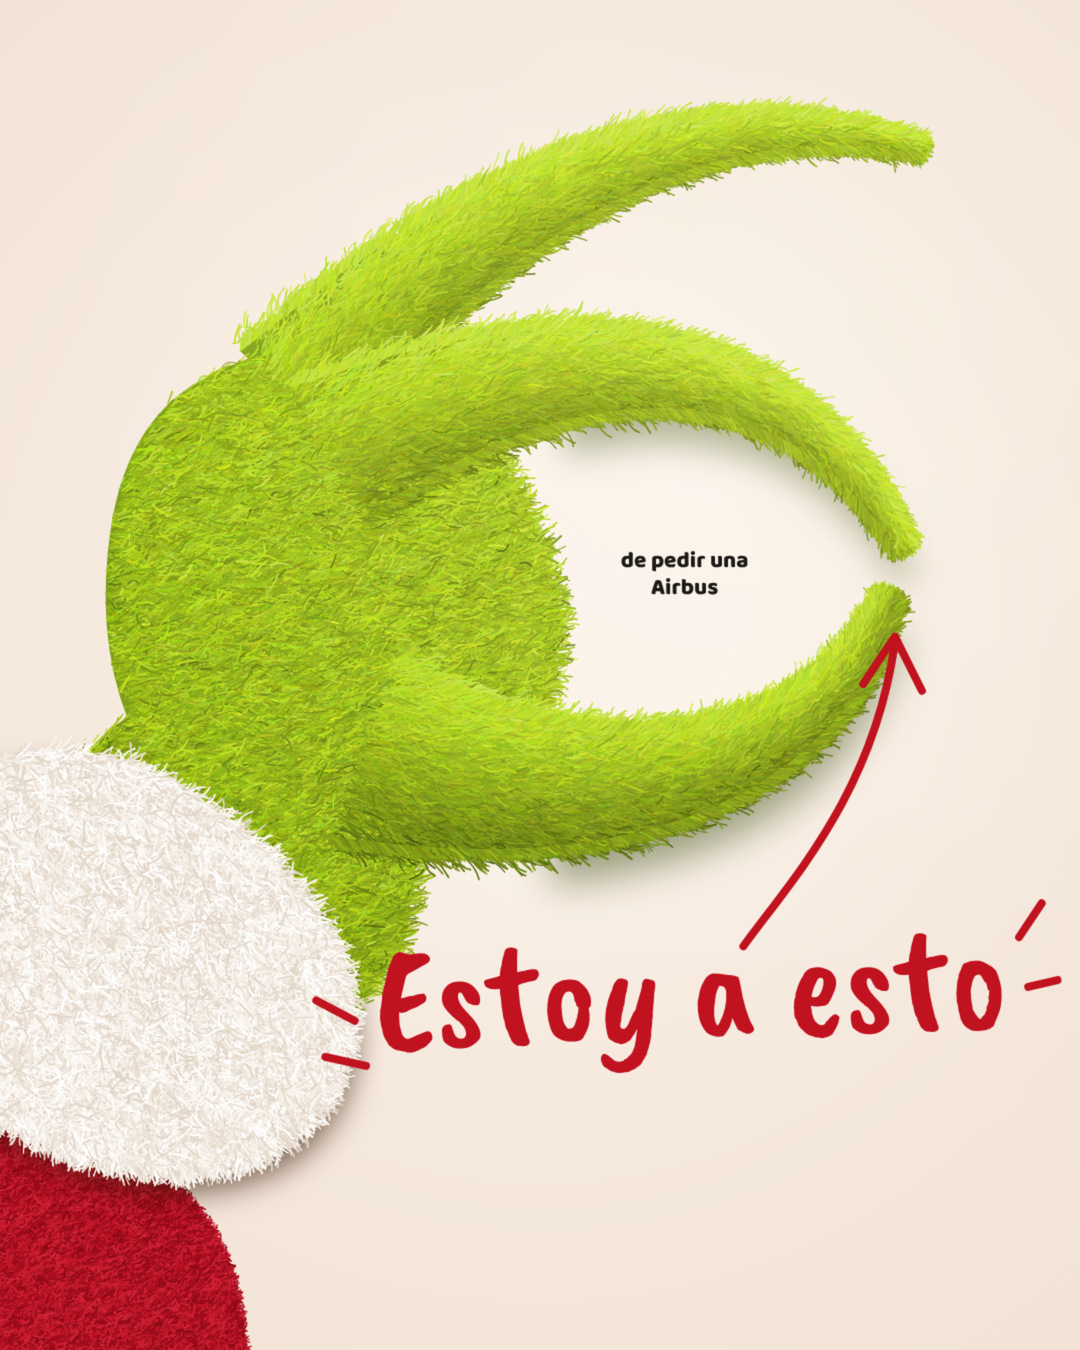
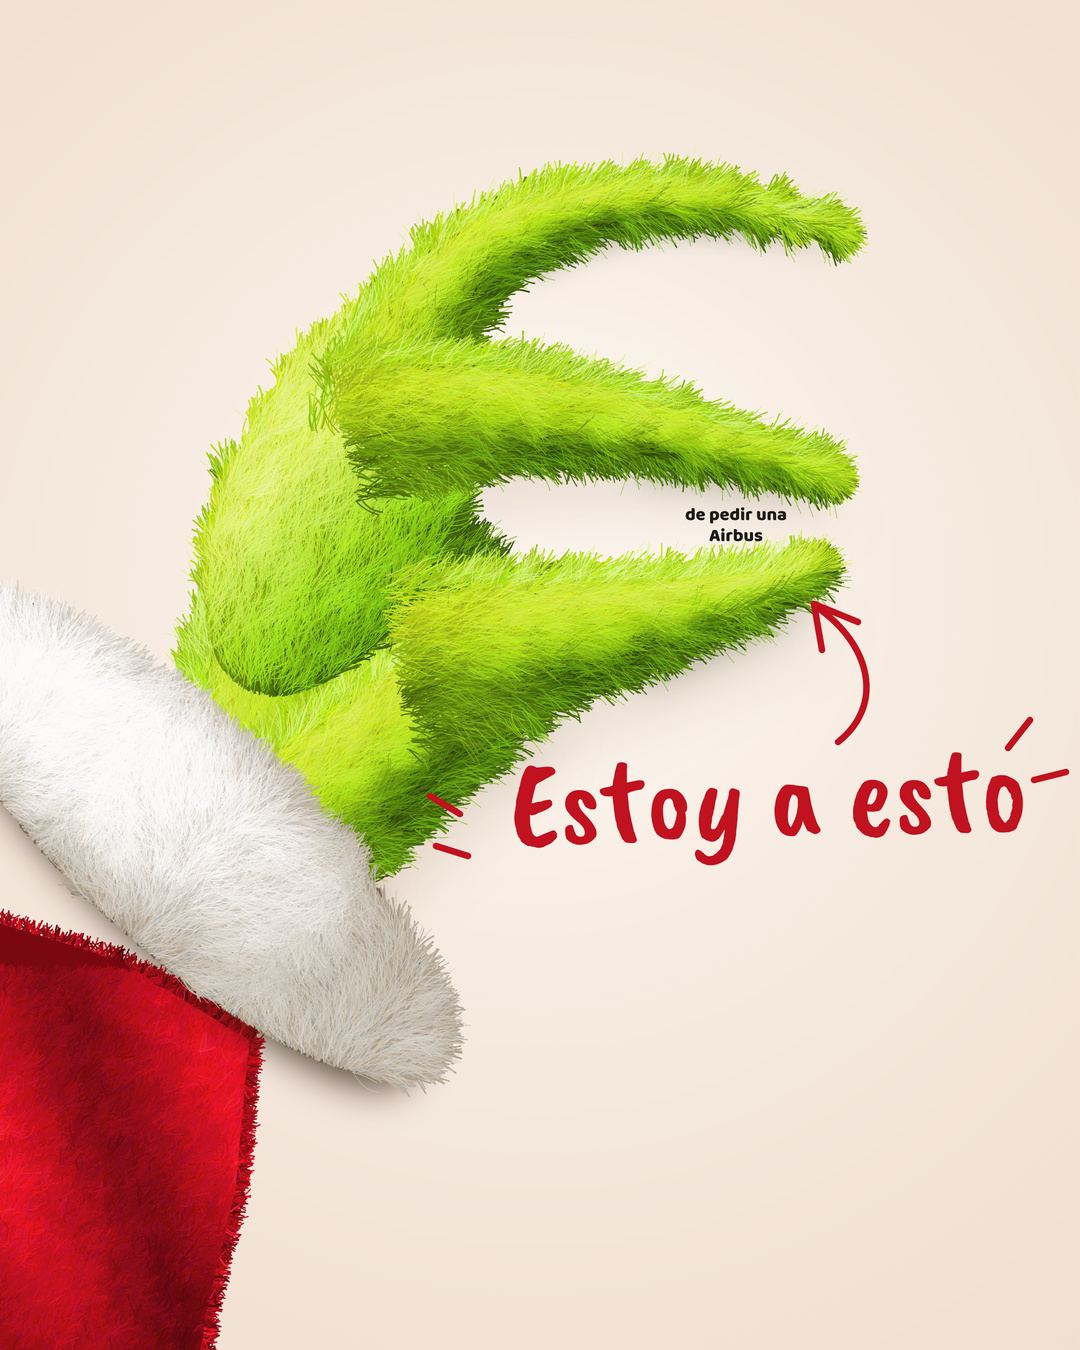
Estoy a esto: mano esbelta y realista (pelo en 3 capas, luz por forma, proporciones de la pose de referencia)
Claude-Session: https://claude.ai/code/session_0158hRDxJUWYBKWghtQE4Xqy

diff --git a/aeroburger/12-estoy-a-esto/src/hand2.html b/aeroburger/12-estoy-a-esto/src/hand2.html
@@ -1,0 +1,175 @@
+<!doctype html>
+<html lang="es">
+<head>
+<meta charset="utf-8">
+<title>Aero Burger — Estoy a esto de pedir una Airbus (mano realista)</title>
+<style>
+@font-face{font-family:'CaveatBrush';src:url('../assets/CaveatBrush.woff')}
+@font-face{font-family:'Baloo';src:url('../assets/Baloo2-800.woff');font-weight:800}
+html,body{margin:0;background:#F6EADF;overflow:hidden}canvas{display:block;width:1080px;height:1350px}
+</style>
+</head>
+<body>
+<canvas id="c"></canvas>
+<script>
+/* =========================================================================
+   «Estoy a esto de pedir una Airbus» · mano peluda realista (pelo procedural, semilla fija)
+   Modelo: cada parte (dedos = cilindros, palma = esfera aplastada, puño = toro esponjoso) tiene normal analítica;
+   el pelo se dibuja en 3 capas (subpelo oscuro · pelo principal en mechones · destellos finos) con luz de arriba-izquierda,
+   oclusión en las bases y los bordes, luz de borde (translucidez) y sombras de contacto entre partes.
+   ?s=1 mano completa + «Estoy a esto» · ?s=2 acercamiento a los dedos · ?ss=2 supermuestreo
+   ========================================================================= */
+const W=1080, H=1350, QS=new URLSearchParams(location.search);
+const SLIDE=QS.get('s')||'1', SS=parseFloat(QS.get('ss')||'2'), QUAL=parseFloat(QS.get('q')||'1');
+const Z = SLIDE==='2' ? {k:2.3, cx:650, cy:500} : {k:1, cx:540, cy:675};
+const BG='#F6EADF', RED='#C1121F', INK='#1d1a17';
+const hctx=document.createElement('canvas').getContext('2d');   // sin transformación: pruebas de punto en coordenadas del mundo
+const canvas=document.getElementById('c'); canvas.width=W*SS; canvas.height=H*SS; const ctx=canvas.getContext('2d');
+// ---------- utilidades
+function rng(seed){ let a=seed>>>0; return ()=>{ a|=0; a=a+0x6D2B79F5|0; let t=Math.imul(a^a>>>15,1|a); t=t+Math.imul(t^t>>>7,61|t)^t; return ((t^t>>>14)>>>0)/4294967296; }; }
+const R=rng(20261127), rnd=(a,b)=>a+(b-a)*R(), gauss=()=>{ let s=0; for(let i=0;i<4;i++) s+=R(); return (s-2)/0.577; };
+const lerp=(a,b,t)=>a+(b-a)*t, clamp=(x,a,b)=>Math.min(b,Math.max(a,x)), sstep=(a,b,x)=>{ const t=clamp((x-a)/(b-a),0,1); return t*t*(3-2*t); };
+// ruido de valor 2D (mechones)
+const NZ=new Float32Array(1024); for(let i=0;i<1024;i++) NZ[i]=R()*2-1;
+function vnoise(x,y){ const xi=Math.floor(x), yi=Math.floor(y), xf=x-xi, yf=y-yi, h=(a,b)=>NZ[((a*73856093)^(b*19349663))&1023], sx=xf*xf*(3-2*xf), sy=yf*yf*(3-2*yf);
+  return lerp(lerp(h(xi,yi),h(xi+1,yi),sx),lerp(h(xi,yi+1),h(xi+1,yi+1),sx),sy); }
+function bez(P,t){ const u=1-t; return {x:u*u*u*P[0][0]+3*u*u*t*P[1][0]+3*u*t*t*P[2][0]+t*t*t*P[3][0], y:u*u*u*P[0][1]+3*u*u*t*P[1][1]+3*u*t*t*P[2][1]+t*t*t*P[3][1]}; }
+function bezD(P,t){ const u=1-t; const x=3*u*u*(P[1][0]-P[0][0])+6*u*t*(P[2][0]-P[1][0])+3*t*t*(P[3][0]-P[2][0]), y=3*u*u*(P[1][1]-P[0][1])+6*u*t*(P[2][1]-P[1][1])+3*t*t*(P[3][1]-P[2][1]); const l=Math.hypot(x,y)||1; return {x:x/l,y:y/l}; }
+// luz: arriba-izquierda y de frente
+const LV=(()=>{ const l=Math.hypot(-0.40,-0.62,0.68); return [-0.40/l,-0.62/l,0.68/l]; })();
+const DET=Math.min(Z.k,1.6);                       // más fino y denso al acercar
+function visible(x,y,m=70){ return Math.abs(x-Z.cx)<540/Z.k+m && Math.abs(y-Z.cy)<675/Z.k+m; }
+
+// ---------- partes
+// dedo: centro bézier, ancho que se afina con nudillos suaves y punta afilada
+function finger(P,w0,w1,o={}){ const f={P,w0,w1,pow:o.pow||0.75,knuckles:o.knuckles??1,flip:!!o.flip,mode:o.mode||'axis',cols:o.cols||'green'};
+  f.width=t=>{ const b=lerp(w0,w1,Math.pow(t,f.pow)); const kn=f.knuckles?(1+0.07*Math.exp(-Math.pow((t-0.34)/0.06,2))+0.05*Math.exp(-Math.pow((t-0.66)/0.05,2))):1; return b*kn*(t>0.93?lerp(1,0.55,(t-0.93)/0.07):1); };
+  const n=120; f.tab=[0]; let len=0, prev=bez(P,0); for(let i=1;i<=n;i++){ const c=bez(P,i/n); len+=Math.hypot(c.x-prev.x,c.y-prev.y); f.tab.push(len); prev=c; } f.len=len;
+  f.tAt=s=>{ let lo=0,hi=n; while(hi-lo>1){ const m=(lo+hi)>>1; if(f.tab[m]<s) lo=m; else hi=m; } return (lo+(s-f.tab[lo])/((f.tab[hi]-f.tab[lo])||1))/n; };
+  let a=0; for(let i=0;i<n;i++){ const t=(i+0.5)/n; a+=f.width(t)*(f.tab[i+1]-f.tab[i]); } f.area=a; return f; }
+function fingerPath(f,t0=0){ const n=60, L=[], Rr=[]; for(let i=0;i<=n;i++){ const t=t0+(1-t0)*i/n, c=bez(f.P,t), d=bezD(f.P,t), w=f.width(t)/2; L.push([c.x-d.y*w,c.y+d.x*w]); Rr.push([c.x+d.y*w,c.y-d.x*w]); }
+  const p=new Path2D(); p.moveTo(L[0][0],L[0][1]); for(const q of L) p.lineTo(q[0],q[1]); for(let i=n;i>=0;i--) p.lineTo(Rr[i][0],Rr[i][1]); p.closePath(); return p; }
+function ellPoly(e,n=40){ const p=new Path2D(); for(let i=0;i<=n;i++){ const a=i/n*Math.PI*2, x=Math.cos(a)*e.rx*(1+0.04*Math.sin(a*3)), y=Math.sin(a)*e.ry*(1+0.04*Math.cos(a*2)); const X=e.cx+x*Math.cos(e.rot)-y*Math.sin(e.rot), Y=e.cy+x*Math.sin(e.rot)+y*Math.cos(e.rot); i?p.lineTo(X,Y):p.moveTo(X,Y); } p.closePath(); return p; }
+
+// Proporciones esbeltas: dedos largos y finos que se afinan hasta la punta, palma y antebrazo estrechos, todo en diagonal desde el puño.
+const F1    =finger([[372,445],[412,250],[565,148],[832,228]],118,7,{pow:0.85,knuckles:0});   // dedo alto: sube en diagonal y barre a la derecha como un cuerno
+const F2    =finger([[338,430],[490,392],[668,422],[824,474]],124,8,{pow:1.12,knuckles:0});   // dedo de la pinza: baja hacia la punta
+const THUMB =finger([[392,665],[525,642],[690,613],[810,573]],150,9,{pow:1.15,knuckles:0});  // pulgar: sube hacia la punta
+const PALMF =finger([[238,850],[282,730],[330,610],[372,500]],150,236,{pow:1.1,knuckles:0});   // antebrazo que se ensancha hacia los nudillos
+const HEEL  =finger([[272,846],[340,785],[420,722],[505,660]],150,100,{pow:1,knuckles:0});     // talón de la mano hasta la base del pulgar
+const KNUCK ={cx:340,cy:500,rx:200,ry:104,rot:-1.12};                                          // masa redondeada del dorso donde nacen los dedos
+const CUFFE={cx:182,cy:842,rx:300,ry:96,rot:0.74};
+const SLEEVEP=new Path2D(); (()=>{ const pts=[[-140,880],[120,960],[250,1040],[236,1190],[205,1320],[196,1440],[-140,1440]]; SLEEVEP.moveTo(pts[0][0],pts[0][1]); for(const q of pts) SLEEVEP.lineTo(q[0],q[1]); SLEEVEP.closePath(); })();
+const SLEEVEPTS=[[-140,880],[120,960],[250,1040],[236,1190],[205,1320],[196,1440]];
+
+// ---------- lotes de trazos (un solo stroke por cubeta de color)
+const batches=new Map();
+function q(layer,x,y,ang,len,wid,L,Hh,Sat,alpha,curve){
+  const Lq=Math.round(clamp(L,4,98)*0.6), Hq=Math.round(Hh/2), Sq=Math.round(Sat/6), Wq=Math.round(wid*5), Aq=Math.round(alpha*4); const key=layer+'|'+Lq+'|'+Hq+'|'+Sq+'|'+Wq+'|'+Aq;
+  let b=batches.get(key); if(!b){ b={style:`hsl(${Hq*2} ${Sq*6}% ${Lq/0.6}%)`,w:Wq/5,a:Aq/4,path:new Path2D()}; batches.set(key,b); }
+  const ca=Math.cos(ang), sa=Math.sin(ang); b.path.moveTo(x,y); b.path.quadraticCurveTo(x+ca*len*0.5-sa*curve,y+sa*len*0.5+ca*curve,x+ca*len,y+sa*len); }
+function flush(){ ctx.lineCap='round'; for(const b of batches.values()){ ctx.strokeStyle=b.style; ctx.lineWidth=b.w; ctx.globalAlpha=b.a; ctx.stroke(b.path); } ctx.globalAlpha=1; batches.clear(); }
+function soften(path,dx,dy,blur,col){ ctx.save(); ctx.filter=`blur(${blur*SS*Z.k}px)`; ctx.fillStyle=col; ctx.translate(dx,dy); ctx.fill(path); ctx.restore(); }
+
+// ---------- pelo de un dedo
+const PAL={ green:{h0:86,h1:68,s:80,l0:16,l1:50,rim:12}, white:{h0:36,h1:34,s:16,l0:62,l1:97,rim:3}, red:{h0:355,h1:352,s:80,l0:20,l1:46,rim:8} };
+function furFinger(f,dens,opt={}){
+  const pal=PAL[f.cols], layers=[['u',0.20,[2.6,3.6],[9,16],0.88],['m',0.78,[1.0,1.7],[16,30],1],['h',0.16,[0.55,0.95],[20,36],0.78]];
+  for(const [name,d,wr,lr,alpha] of layers){
+    const N=Math.round(dens*d*f.area/Math.pow(1,1)*DET*DET*QUAL);
+    for(let i=0;i<N;i++){
+      const s=Math.pow(R(),1.0)*f.len, t=f.tAt(s), c=bez(f.P,t), d0=bezD(f.P,t), w=f.width(t)/2;
+      let u=gauss()*0.52; if(R()<0.07) u=(R()<0.5?-1:1)*(1+R()*0.22); u=clamp(u,-1.25,1.25);
+      const x=c.x-d0.y*w*u, y=c.y+d0.x*w*u; if(!visible(x,y)) continue;
+      if(name==='u' && t<0.24) continue; if(t<0.22 && R()>0.18+t*3.6) continue;                                // la base se funde con la palma
+      const uu=clamp(u,-1,1), nz=Math.sqrt(1-uu*uu), lx=-d0.y*uu, ly=d0.x*uu;
+      const diff=Math.max(clamp(lx*LV[0]+ly*LV[1]+nz*LV[2],0,1)*0.88+0.12,0.36*(1-sstep(0.12,0.55,t)));
+      const ao=0.14*(1-sstep(0,0.3,t))+0.20*sstep(0.72,1.15,Math.abs(u));
+      const cl=vnoise(x/15,y/15), cl2=vnoise(x/6+40,y/6);                 // mechones
+      const dir=Math.atan2(d0.y,d0.x)*1+(f.flip?Math.PI:0);
+      const ang=dir+gauss()*0.30+cl*0.55+uu*(0.18+(Math.abs(u)>1?0.5:0))*(name==='h'?1:0.7);
+      const len=(rnd(lr[0],lr[1])*(1+0.25*sstep(0.6,1,t)))/DET, wid=rnd(wr[0],wr[1])/DET;
+      let L=lerp(pal.l0,pal.l1,diff*(1-ao))+cl*4+cl2*1.8+gauss()*2.2;
+      if(name==='u') L=lerp(pal.l0*0.8,pal.l1*0.45,diff)*(1-ao*0.9)+cl*1.5;
+      if(name==='h') L+=10+pal.rim*Math.pow(1-nz,2)*(uu<0?1.4:0.5);
+      L+=pal.rim*Math.pow(1-nz,2.4)*(lx*LV[0]+ly*LV[1]>0?1:0.25);        // luz de borde por translucidez
+      q(name,x,y,ang,len,wid,L,lerp(pal.h0,pal.h1,diff)+gauss()*2,pal.s+gauss()*4,alpha,gauss()*3.5/DET);
+    }
+    if(name==='u') flush();                                              // el subpelo debajo del pelo principal
+    if(name==='m') flush();
+  }
+  flush();
+}
+// ---------- pelo de un elipsoide (palma / puño)
+function furEll(e,dens,cols,fuzz=1.12,flow,flat=1,noRim=false){
+  const pal=PAL[cols], area=Math.PI*e.rx*e.ry, layers=[['u',0.20,[2.8,3.8],[9,16],0.88],['m',0.78,[1.0,1.8],[16,32],1],['h',0.16,[0.55,1.0],[20,38],0.78]];
+  for(const [name,d,wr,lr,alpha] of layers){
+    const N=Math.round(dens*d*area*DET*DET*QUAL);
+    for(let i=0;i<N;i++){
+      const a=R()*Math.PI*2, r=Math.sqrt(R())*fuzz, xl=Math.cos(a)*r, yl=Math.sin(a)*r, cs=Math.cos(e.rot), sn=Math.sin(e.rot);
+      const x=e.cx+(xl*e.rx)*cs-(yl*e.ry)*sn, y=e.cy+(xl*e.rx)*sn+(yl*e.ry)*cs; if(!visible(x,y)) continue;
+      if(noRim&&name==='u'&&r>0.78) continue;
+      const r2=Math.min(1,xl*xl+yl*yl)*flat, nz=Math.sqrt(1-r2), nx=xl*cs-yl*sn, ny=xl*sn+yl*cs;
+      const diff=clamp(nx*LV[0]+ny*LV[1]+nz*LV[2],0,1)*0.88+0.12, cl=vnoise(x/16,y/16), cl2=vnoise(x/6+40,y/6);
+      const ang=flow(x,y)+gauss()*0.34+cl*0.6;
+      const ao=0.22*flat*sstep(0.7,1.1,Math.sqrt(xl*xl+yl*yl));
+      let L=lerp(pal.l0,pal.l1,diff*(1-ao))+cl*4+cl2*1.8+gauss()*2.2;
+      if(name==='u') L=lerp(pal.l0*0.8,pal.l1*0.45,diff)*(1-ao*0.9);
+      if(name==='h') L+=10+pal.rim;
+      L+=pal.rim*Math.pow(1-nz,2.4)*(nx*LV[0]+ny*LV[1]>0?1:0.25);
+      q(name,x,y,ang,rnd(lr[0],lr[1])/DET,rnd(wr[0],wr[1])/DET,L,lerp(pal.h0,pal.h1,diff)+gauss()*2,pal.s+gauss()*4,alpha,gauss()*3.5/DET);
+    }
+    if(name!=='h') flush();
+  }
+  flush();
+}
+function furSleeve(){
+  for(const [d,wr,lr,alpha] of [[0.9,[2.6,3.6],[9,14],0.9],[3.0,[1.0,1.7],[10,20],1]]){
+    const N=Math.round(d*160000*DET*DET*QUAL/9); let n=0, tries=0;
+    while(n<N&&tries<N*4){ tries++; const x=rnd(-90,270), y=rnd(980,1420); if(!visible(x,y)||!hctx.isPointInPath(SLEEVEP,x,y)) continue; n++;
+      const fold=0.5+0.5*Math.sin((x*0.9-y*0.35)/38), sh=lerp(0.35,1,fold)*(1-0.4*sstep(1180,1400,y)), cl=vnoise(x/14,y/14);
+      q('s',x,y,-0.9+gauss()*0.45+cl*0.4,rnd(lr[0],lr[1])/DET,rnd(wr[0],wr[1])/DET,18+sh*30+cl*3+gauss()*2,355+gauss()*2,82,alpha,gauss()*3); }
+    flush(); }
+}
+function sleeveFuzz(){ const pts=SLEEVEPTS; for(let i=0;i<pts.length-1;i++){ const [x0,y0]=pts[i],[x1,y1]=pts[i+1], L=Math.hypot(x1-x0,y1-y0), nx=(y1-y0)/L, ny=-(x1-x0)/L, N=Math.round(L*1.6*DET*QUAL); for(let k=0;k<N;k++){ const t=R(), x=x0+(x1-x0)*t, y=y0+(y1-y0)*t; if(!visible(x,y)) continue; const ang=Math.atan2(ny,nx)+gauss()*0.6; q('s',x,y,ang,rnd(7,15)/DET,rnd(1,1.7)/DET,34+gauss()*8,355+gauss()*2,82,1,gauss()*2); } } flush(); }
+function drawHand(){
+  // sombra de contacto suave sobre el fondo
+  for(const f of [F2,THUMB,PALMF,HEEL]) soften(fingerPath(f),26,50,30,'rgba(120,80,50,.15)');
+  // manga roja y sombra del puño sobre ella
+  ctx.fillStyle='#7a0813'; ctx.fill(SLEEVEP); furSleeve(); sleeveFuzz();
+  soften(ellPoly(CUFFE),8,26,20,'rgba(40,0,6,.55)');
+  // antebrazo y dorso de la mano, dedo alto, dedo de la pinza y pulgar (de atrás hacia delante)
+  ctx.fillStyle='#3d5a0b'; ctx.fill(fingerPath(PALMF,0.05)); ctx.fill(fingerPath(HEEL,0.05)); furFinger(PALMF,0.62); furFinger(HEEL,0.62);
+  ctx.fillStyle='#3d5a0b'; ctx.fill(ellPoly(KNUCK)); furEll(KNUCK,0.60,'green',1.06,(x,y)=>-1.12+0.25*(x-KNUCK.cx)/KNUCK.rx,0.04,true);
+  soften(fingerPath(F1,0.5),3,20,12,'rgba(15,28,0,.30)'); furFinger(F1,0.66);
+  soften(fingerPath(F2,0.62),4,24,16,'rgba(20,34,0,.28)'); furFinger(F2,0.66);
+  soften(fingerPath(THUMB,0.55),6,28,16,'rgba(20,34,0,.28)'); furFinger(THUMB,0.66);
+  // puño blanco esponjoso
+  soften(ellPoly(CUFFE),10,16,16,'rgba(35,52,0,.5)');
+  ctx.fillStyle='#b9aea3'; ctx.fill(ellPoly(CUFFE));
+  furEll(CUFFE,0.62,'white',1.10,(x,y)=>-0.9+0.9*Math.sin((x*0.021)+(y*0.017)));
+}
+// ---------- textos
+function handText(str,x,y,size,col,rot=0){ ctx.save(); ctx.translate(x,y); ctx.rotate(rot); ctx.font=`${size}px CaveatBrush`; ctx.textAlign='center'; ctx.fillStyle=col; ctx.fillText(str,0,0); ctx.restore(); }
+function arrow(){ ctx.save(); ctx.strokeStyle=RED; ctx.lineWidth=6.5; ctx.lineCap='round'; ctx.lineJoin='round';
+  ctx.beginPath(); ctx.moveTo(838,742); ctx.bezierCurveTo(884,706,872,646,818,608); ctx.stroke();
+  ctx.beginPath(); ctx.moveTo(822,650); ctx.lineTo(814,604); ctx.lineTo(858,622); ctx.stroke();
+  for(const [a,b,c,d] of [[430,796,460,814],[436,846,468,856],[1008,748,1030,720],[1034,780,1066,772]]){ ctx.beginPath(); ctx.moveTo(a,b); ctx.lineTo(c,d); ctx.stroke(); } ctx.restore(); }
+
+async function draw(){
+  await Promise.all([document.fonts.load('80px CaveatBrush'),document.fonts.load('800 80px Baloo')]);
+  ctx.setTransform(SS,0,0,SS,0,0); ctx.fillStyle=BG; ctx.fillRect(0,0,W,H);
+  const vg=ctx.createRadialGradient(540,560,160,540,675,1050); vg.addColorStop(0,'rgba(255,250,244,.65)'); vg.addColorStop(1,'rgba(226,198,176,.30)'); ctx.fillStyle=vg; ctx.fillRect(0,0,W,H);
+  ctx.save(); ctx.translate(540-Z.cx*Z.k,675-Z.cy*Z.k); ctx.scale(Z.k,Z.k);
+  // isPointInPath usa coordenadas de lienzo: para la manga se pasa en píxeles reales (ver furSleeve)
+  drawHand();
+  if(SLIDE==='1'){ arrow(); handText('Estoy a esto',770,836,122,RED,-0.03);
+    ctx.save(); ctx.fillStyle=INK; ctx.font='800 18px Baloo'; ctx.textAlign='center'; ctx.fillText('de pedir una',736,520); ctx.fillText('Airbus',736,541); ctx.restore(); ctx.restore();
+  } else { ctx.restore(); ctx.save(); ctx.setTransform(SS,0,0,SS,0,0); ctx.fillStyle=INK; ctx.font='800 80px Baloo'; ctx.textAlign='center'; ctx.fillText('de pedir',540,714); ctx.fillText('una Airbus',540,798);
+    ctx.font='600 26px Inter'; ctx.fillStyle='rgba(60,45,30,.55)'; ctx.letterSpacing='3px'; ctx.fillText('@AERO.BURGER  ·  SANTA ELENA',540,1290); ctx.restore(); }
+  return true;
+}
+window.ready=draw();
+</script>
+</body>
+</html>

diff --git a/aeroburger/12-estoy-a-esto/src/render.js b/aeroburger/12-estoy-a-esto/src/render.js
@@ -5,8 +5,8 @@ const { chromium } = require('playwright'); const path = require('path');
   const page = await browser.newPage({ viewport: { width: 1080, height: 1350 }, deviceScaleFactor: sc });
   page.on('pageerror', e => console.error('[pageerror]', e.message)); page.on('console', m => m.type() === 'error' && console.error('[console]', m.text()));
   for (const s of (process.argv[2] || '1,2').split(',')) {
-    await page.goto('file://' + path.resolve('src/hand.html') + '?s=' + s); await page.evaluate(() => window.ready);
-    await (await page.$('#c')).screenshot({ path: `out/estoy_a_esto_${s}.png` }); console.log('lámina', s);
+    await page.goto('file://' + path.resolve('src/' + (process.env.HAND || 'hand.html')) + '?s=' + s + '&ss=' + (process.env.SS || '1') + '&q=' + (process.env.Q || '1')); await page.evaluate(() => window.ready);
+    await (await page.$('#c')).screenshot({ path: `out/${process.env.OUTP || 'estoy_a_esto'}_${s}.png` }); console.log('lámina', s);
   }
   await browser.close();
 })();

diff --git a/aeroburger/12-estoy-a-esto/README.md b/aeroburger/12-estoy-a-esto/README.md
@@ -4,4 +4,5 @@ Carrusel de 2 imágenes 1080×1350 (4:5). Chiste del formato «Estoy a esto» (m
 lámina 2 = acercamiento a los dedos con «de pedir una Airbus».
 
 La mano es una ilustración original (pelo procedural con semilla fija, puño blanco y manga roja de Santa), no la imagen de la referencia.
-Render: `SCALE=2 node src/render.js 1,2` y reducir a 1080×1350 (ver `out/`). Fuentes (OFL): Caveat Brush y Baloo 2 (`assets/`).
+Motor actual: `src/hand2.html` (pelo en 3 capas con luz por forma, proporciones esbeltas tomadas de la pose de la referencia; `src/hand.html` es la primera versión, más plana).
+Render: `HAND=hand2.html SS=2 SCALE=2 node src/render.js 1,2` y reducir a 1080×1350 (ver `out/`). Fuentes (OFL): Caveat Brush y Baloo 2 (`assets/`).
